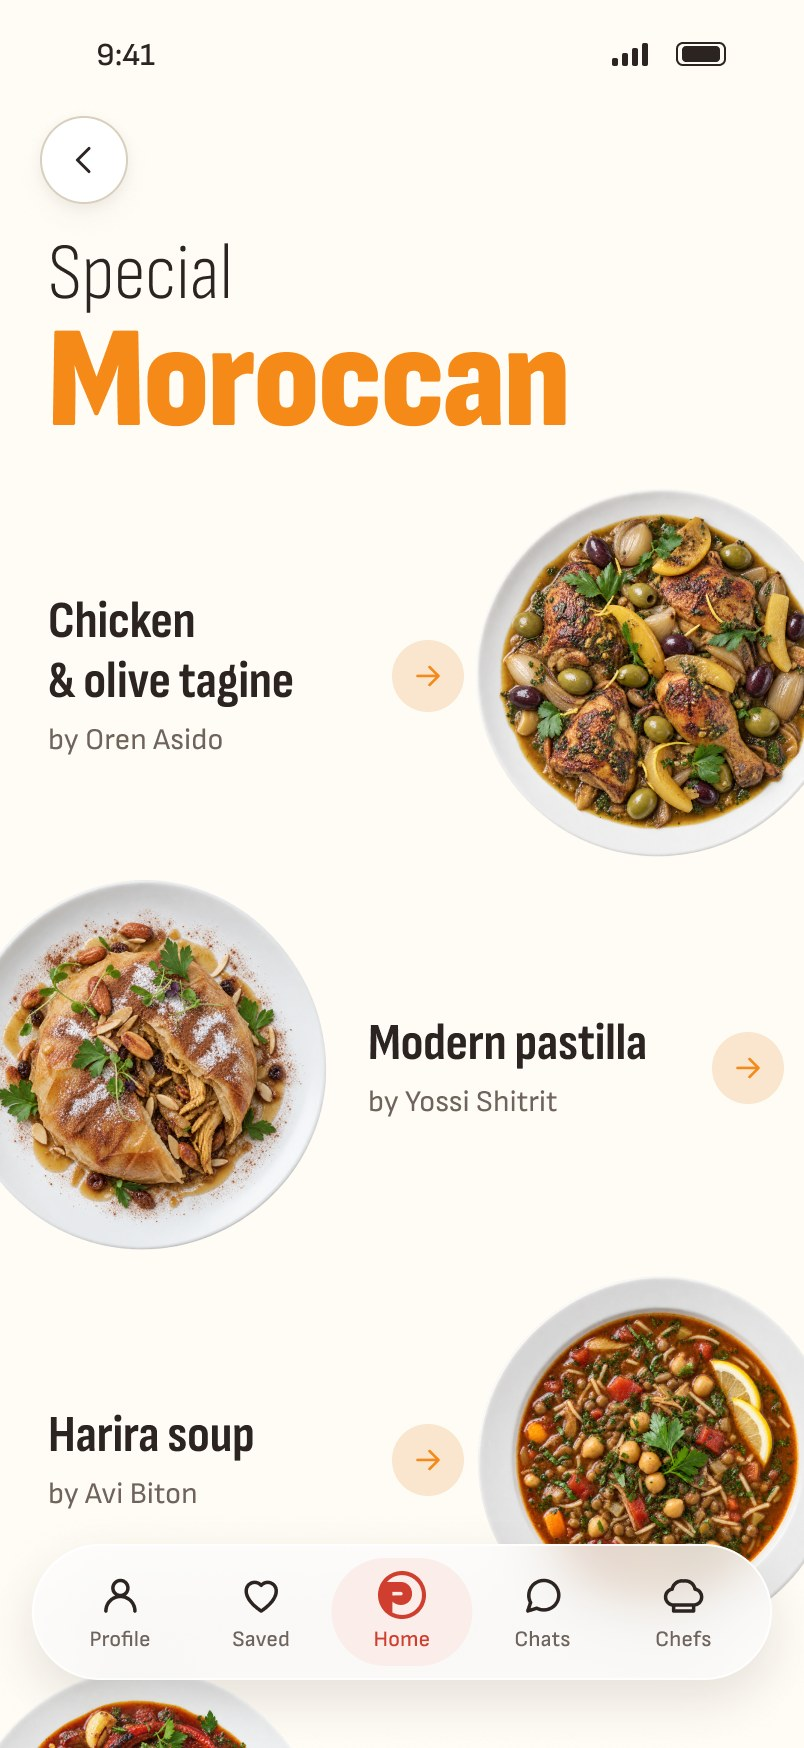
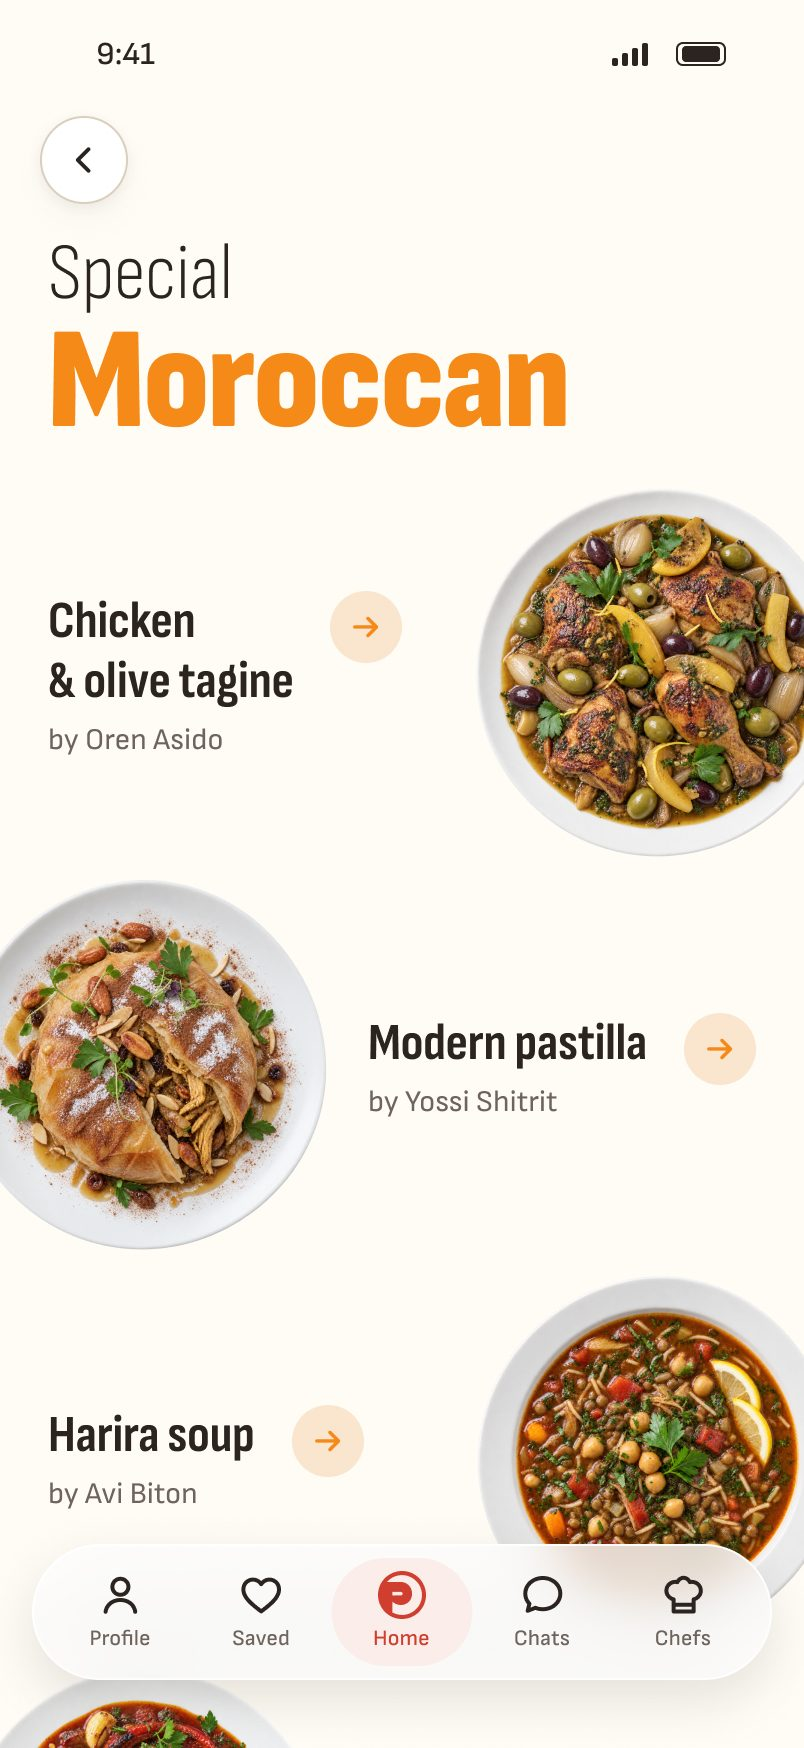
Pinch: refined Well done and Moroccan cuisine screens
Claude-Session: https://claude.ai/code/session_01CJH6cQSNvBBfDy3oqE5fbb

diff --git a/projects/pinch.html b/projects/pinch.html
@@ -525,9 +525,9 @@
           <div class="cs-phone"><div class="shell"><div class="screen"><img src="../images/pinch/v2/screen-plans.jpg?v=5" alt="Payment and subscriptions: the Starter plan, free" loading="lazy"></div></div><span class="t"><span class="en">Plans</span></span><span class="d"><span class="en">Start free with Starter, then add more chefs as you go.</span></span></div>
           <div class="cs-phone"><div class="shell"><div class="screen"><img src="../images/pinch/v2/screen-chats.jpg?v=5" alt="Chats: conversations with chefs, filtered by recipes and consultations" loading="lazy"></div></div><span class="t"><span class="en">Chats</span></span><span class="d"><span class="en">Every conversation with a chef, kept in one place.</span></span></div>
           <div class="cs-phone"><div class="shell"><div class="screen"><img src="../images/pinch/v2/screen-popular.jpg?v=6" alt="Popular recipes" loading="lazy"></div></div><span class="t"><span class="en">Popular recipes</span></span><span class="d"><span class="en">What everyone's cooking right now, and which chef it's from.</span></span></div>
-          <div class="cs-phone"><div class="shell"><div class="screen"><img src="../images/pinch/v2/screen-cuisine.jpg?v=5" alt="Moroccan cuisine: a list of Moroccan recipes" loading="lazy"></div></div><span class="t"><span class="en">Cuisines</span></span><span class="d"><span class="en">Browse by cuisine, from Moroccan to Italian, Mexican and Asian.</span></span></div>
+          <div class="cs-phone"><div class="shell"><div class="screen"><img src="../images/pinch/v2/screen-cuisine.jpg?v=6" alt="Moroccan cuisine: a list of Moroccan recipes" loading="lazy"></div></div><span class="t"><span class="en">Cuisines</span></span><span class="d"><span class="en">Browse by cuisine, from Moroccan to Italian, Mexican and Asian.</span></span></div>
           <div class="cs-phone"><div class="shell"><div class="screen"><img src="../images/pinch/v2/screen-shopping.jpg?v=6" alt="My shopping lists" loading="lazy"></div></div><span class="t"><span class="en">Shopping lists</span></span><span class="d"><span class="en">Every recipe becomes a list you can share or download.</span></span></div>
-          <div class="cs-phone"><div class="shell"><div class="screen"><img src="../images/pinch/v2/screen-welldone.jpg?v=5" alt="Assaf Granit celebrates a finished dish: well done, I'm proud of you" loading="lazy"></div></div><span class="t"><span class="en">Well done</span></span><span class="d"><span class="en">When the dish is ready, the chef celebrates it with you.</span></span></div>
+          <div class="cs-phone"><div class="shell"><div class="screen"><img src="../images/pinch/v2/screen-welldone.jpg?v=6" alt="Assaf Granit celebrates a finished dish: well done, I'm proud of you" loading="lazy"></div></div><span class="t"><span class="en">Well done</span></span><span class="d"><span class="en">When the dish is ready, the chef celebrates it with you.</span></span></div>
         </div>
       </div>
 
